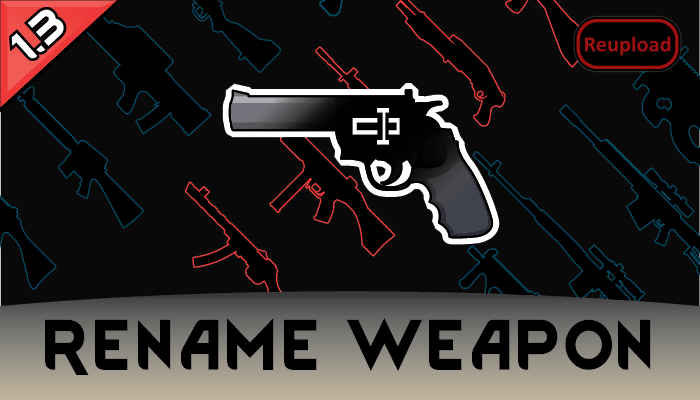
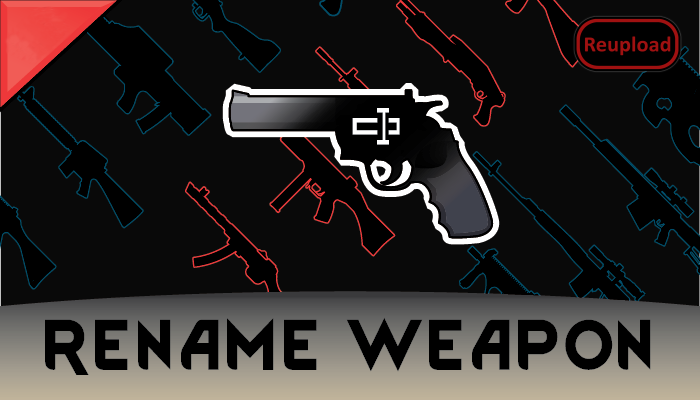
Removed version from preview-image

Changed region(s): [[0.0, 0.0, 0.12, 0.15]]

diff --git a/README.md b/README.md
@@ -65,3 +65,4 @@ or Suffix Quality
 -  If you have the solution for a problem, please post it to the GitHub repository.
 
 
+https://steamcommunity.com/sharedfiles/filedetails/changelog/2994143207]Last updated 2023-06-29
